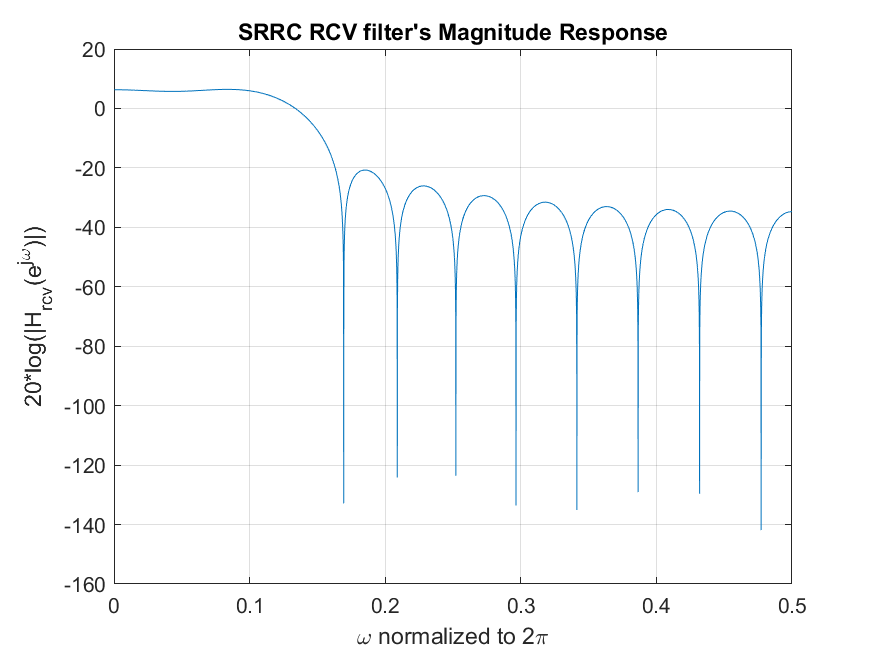
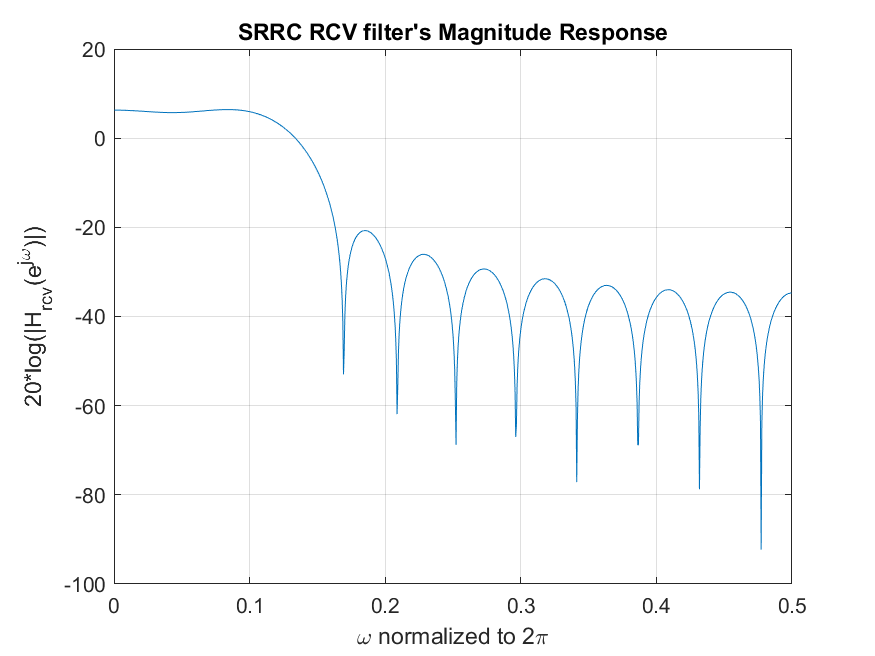
Added a part to demo that find() can determine if stopband attenuation meets spec
Added a part to demo that find() can determine if stopband attenuation meets spec

diff --git a/1Deliverable/Deliverable1.m b/1Deliverable/Deliverable1.m
@@ -131,6 +131,7 @@ h_TX = rcosdesign(beta,span,Nsps);
 
 
 h_srrc = h_TX.*wn.';
+% h_srrc = h_TX;  % Demo that find() verifies the stopband attenuation
 H_hat_srrc = freqz(h_srrc,1,w);
 
 
@@ -146,7 +147,7 @@ grid;
 datacursormode(TX_THEO,'on');
 print -dpng ./pics/mag_response_of_theoretical_SRRC_TX_filter.png
 % comment/uncomment below
-% close 'Magnitude Response of theoretical SRRC TX filter'
+close 'Magnitude Response of theoretical SRRC TX filter'
 
 DC = 20*log10(abs(H_hat_srrc(1)));
 
@@ -155,5 +156,6 @@ col = find(w/2/pi > 0.2);
 for i = 1:length(col)
     if ( abs(DC-20*log10(abs(H_hat_srrc(col(i))))) < 40 )
         fprintf('!!!ERROR IN TX FILTER!!!!\nindex: %d | Magnitude: %10.6f dB | %.6f cycles/sample\n', col(i), 20*log10(abs(H_hat_srrc(col(i)))), w(col(i))/2/pi );
+        return
     end
 end
